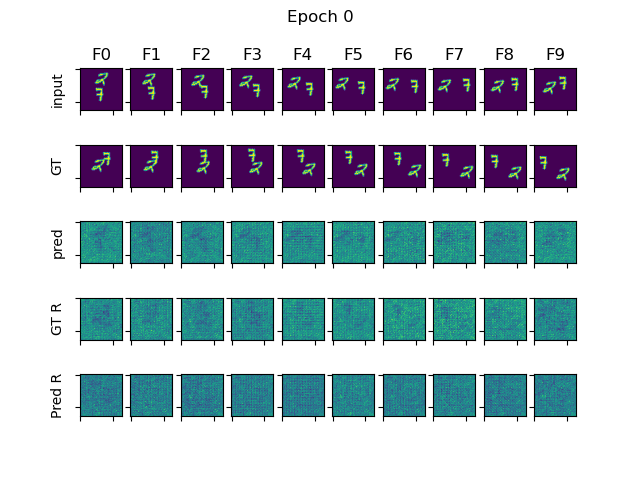
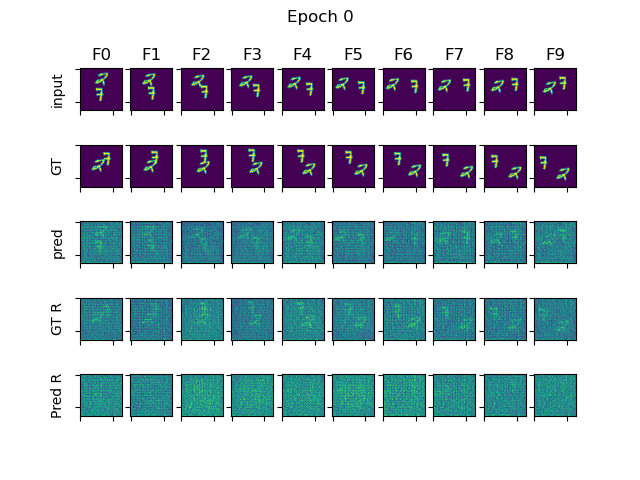
updates

Changed region(s): [[0.125, 0.4375, 0.9062, 0.5625], [0.125, 0.7812, 0.9062, 0.875], [0.125, 0.625, 0.9062, 0.7188]]

diff --git a/gan/models/exp_cocyclegan/cocycle_gan_model.py b/gan/models/exp_cocyclegan/cocycle_gan_model.py
@@ -394,7 +394,7 @@ class CoCycleGAN(LightningModule):
 
         # return loss + adversarial_loss
 
-        l2_lambda = 0.00001
+        l2_lambda = 0.0001
         l2_norm = sum(p.pow(2).sum() for p in self.generator.parameters())
         self.log("CoCycleLoss/l1_norm", l2_lambda * l2_norm, prog_bar=True)
         # self.log("OneWayLoss/l1", F.smooth_l1_loss(pred_y, y), prog_bar=True)
@@ -406,9 +406,9 @@ class CoCycleGAN(LightningModule):
             + self.params.hparams["l1_cyclic_loss_weight"]
             * (pred_cycle_l1 + pred_y_cycle_l1)
             + self.params.hparams["l1_pred_loss_weight"]
-            * (F.mse_loss(pred_y, y) + pred_y_l1)
+            * (F.mse_loss(pred_y, y) )
             + self.params.hparams["l1_past_pred_loss_weight"]
-            * (F.mse_loss(pred_x, x) + pred_x_l1)
+            * (F.mse_loss(pred_x, x) )
             + l2_norm * l2_lambda
             # + self.params.hparams["l1_pred_frame_one_loss_weight"]
             # * (pred_y_frame_one_loss + pred_x_frame_one_loss)

diff --git a/gan/models/exp_cocyclegan/model.py b/gan/models/exp_cocyclegan/model.py
@@ -15,7 +15,7 @@ class Model(CoCycleGAN):
         self.generator = SimVP(params)
         # self.frame_discriminator = ResNetFrameDiscriminator(params)
         self.discriminator = ResNetTemproalDiscriminator(
-            params, [4, 4, 4, 4], [64, 128, 256, 512]
+            params, [6, 6, 6, 6], [32, 64, 128, 256]
         )
         # self.discriminator = ResNet3DClassifier(
         #     params, block_inplanes=(32, 64, 128, 256)
